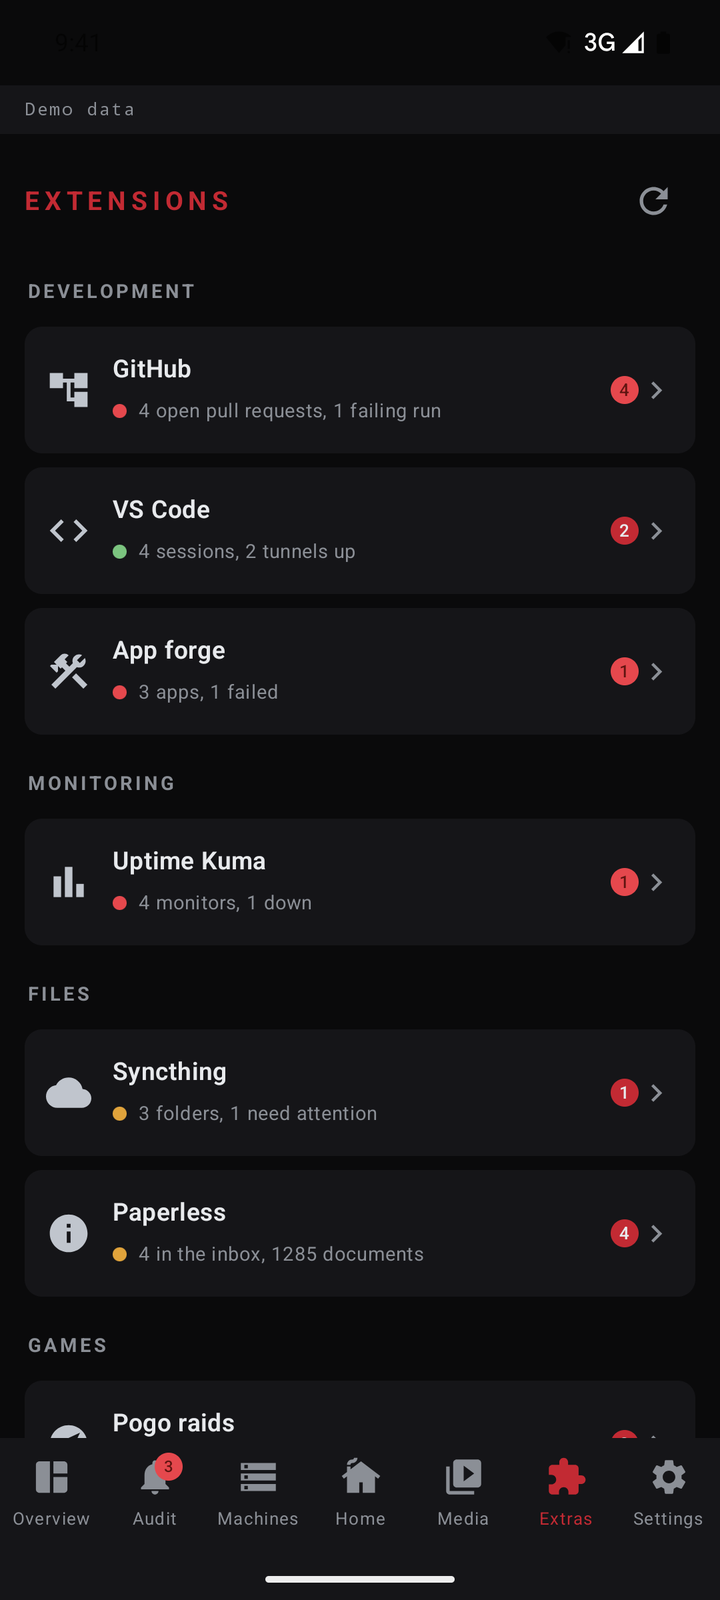
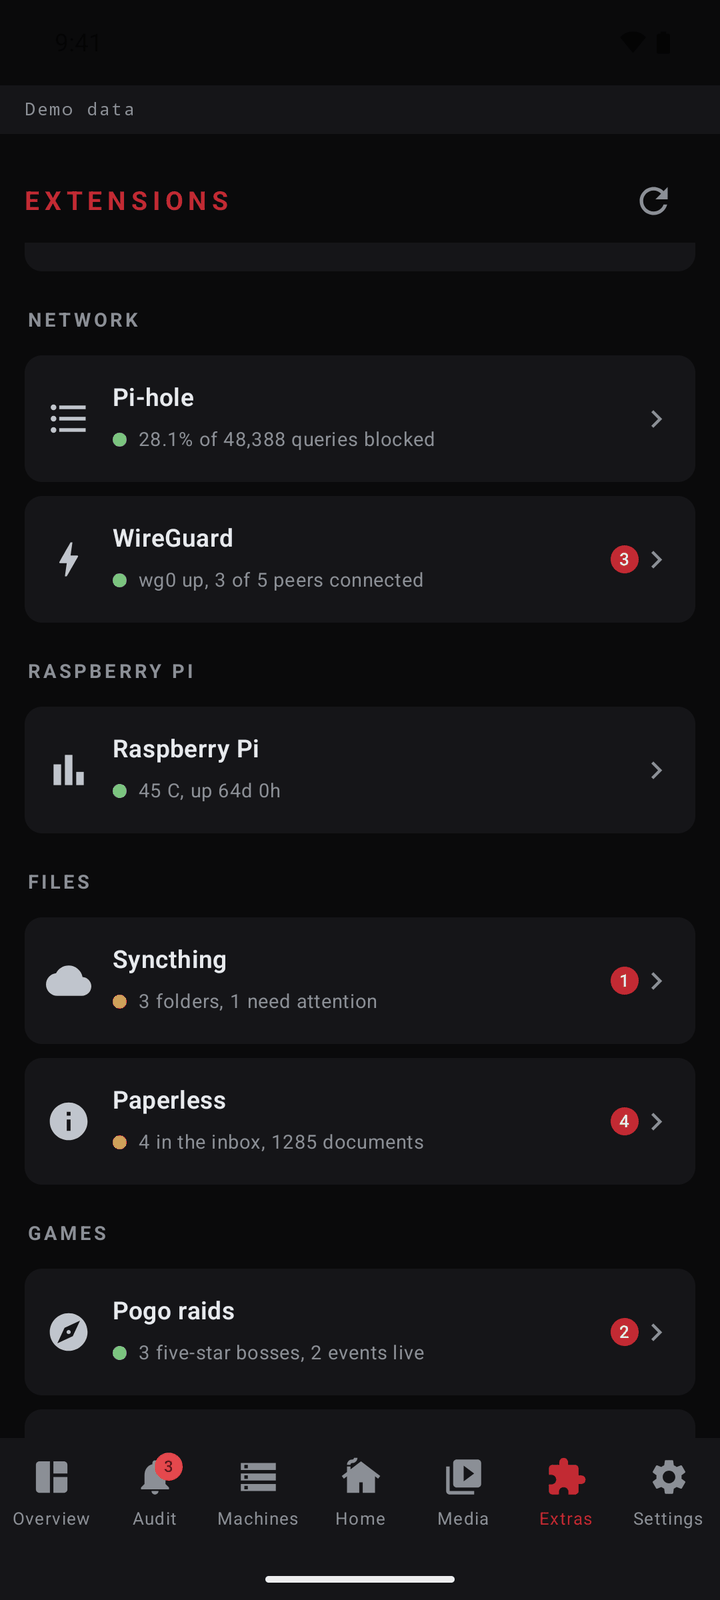
Document the Network and Raspberry Pi extensions, add screenshots
Lists the three new demo views in both READMEs and adds emulator screenshots. The extensions list screenshot is retaken because the Network and Raspberry Pi groups now sit after Monitoring.

diff --git a/README.md b/README.md
@@ -102,20 +102,23 @@ Control Center does not ship a backend of its own. It is a client for whatever H
 
 An extension is an integration the bridge describes and the app renders with one generic screen, so adding one needs a bridge change and no new APK. The bridge lists them at `GET /extensions`, serves each one as sections of typed blocks (stats, list, progress, text, chips, actions, link) at `GET /extensions/{id}`, and takes button presses at `POST /extensions/{id}/action`. The app refreshes the open screen on the pace the bridge asks for. Unknown block types and fields are ignored, so a newer bridge does not break an older app.
 
-The demo bridge serves nine, all with invented data (`--extensions github,hello` picks which). The list shows them under group headers, which come from an optional `group` field in `GET /extensions`; a bridge that sends none gets a flat list.
+The demo bridge serves twelve, all with invented data (`--extensions github,hello` picks which). The list shows them under group headers, which come from an optional `group` field in `GET /extensions`; a bridge that sends none gets a flat list.
 
 - **Development**: **GitHub** (pull requests, CI runs, merge and re-run), **VS Code** (remote sessions and tunnels), **App forge** (describe an app and watch a fake build job; in demo mode nothing is built, a real version would scaffold an Expo project and build it with a coding agent).
 - **Monitoring**: **Uptime Kuma** (monitors with response times and 24 hour uptime, pause and resume).
+- **Network**: **Pi-hole** (DNS filtering stats, pause for a short while, enable or disable, add a domain to the blocklist) and **WireGuard** (VPN peers with handshake age and transfer, enable, disable, remove, add a peer).
+- **Raspberry Pi**: **Raspberry Pi** (temperature, uptime and throttling flags, SD card, interface toggles, boot and overclock settings, firmware update, reboot).
 - **Files**: **Syncthing** (folder sync state with a moving progress bar, rescan) and **Paperless** (document inbox, a consume queue, mark reviewed).
 - **Games**: **Pogo raids** (sample raid bosses and events with made-up dates; a real version would read a public community event feed) and **Deadlock** (a draft-advisor overlay switch, suggested picks, recent matches, all sample numbers).
 - **Examples**: **Hello**, the 20-line example.
 
-The homelab apps (Uptime Kuma, Syncthing, Paperless) are demo views with invented titles, users and numbers. A real bridge would call each app's own API and return the same blocks.
+The homelab apps (Uptime Kuma, Syncthing, Paperless, Pi-hole, WireGuard and the Pi panel) are demo views with invented titles, users and numbers. A real bridge would call each app's own API (Pi-hole's API, the `wg` tool, the Pi's configuration tool) and return the same blocks.
 
 | | | |
 |---|---|---|
 | <img src="docs/screenshots/extension-pogo.png" width="200" alt="Raid calendar extension"> | <img src="docs/screenshots/extension-deadlock.png" width="200" alt="Deadlock draft helper with the overlay running"> | <img src="docs/screenshots/extension-vscode.png" width="200" alt="VS Code extension with remote sessions and tunnels"> |
-| <img src="docs/screenshots/extension-uptime.png" width="200" alt="Uptime Kuma extension with one monitor down and uptime bars"> | <img src="docs/screenshots/extension-syncthing.png" width="200" alt="Syncthing extension with a folder syncing"> | |
+| <img src="docs/screenshots/extension-uptime.png" width="200" alt="Uptime Kuma extension with one monitor down and uptime bars"> | <img src="docs/screenshots/extension-syncthing.png" width="200" alt="Syncthing extension with a folder syncing"> | <img src="docs/screenshots/extension-pihole.png" width="200" alt="Pi-hole extension with blocking paused"> |
+| <img src="docs/screenshots/extension-wireguard.png" width="200" alt="WireGuard extension with peers and handshake ages"> | <img src="docs/screenshots/extension-raspi.png" width="200" alt="Raspberry Pi extension with health and settings"> | |
 
 The block table and a "write your own" walkthrough are in [bridge/README.md](bridge/README.md#extensions).
 

diff --git a/bridge/README.md b/bridge/README.md
@@ -116,7 +116,7 @@ The app shows the **Extras** tab only when `/capabilities` lists `extensions`.
 A bridge with no `/capabilities` at all never gets the tab, because an older
 bridge cannot have `/extensions`.
 
-The demo serves nine, all with invented data and in-memory state. None of them
+The demo serves twelve, all with invented data and in-memory state. None of them
 calls a real service, runs a command or touches the network:
 
 | Id | Shows | Actions |
@@ -129,6 +129,9 @@ calls a real service, runs a command or touches the network:
 | `uptime` | Uptime monitors with up or down tone, response time and a 24 hour uptime bar; one is down | Pause and resume a monitor. |
 | `paperless` | Document counts, inbox with tag chips, a consume queue item that finishes after about 12 seconds | "Mark reviewed" removes an inbox item. |
 | `syncthing` | Folders with state (up to date, syncing with a moving bar, out of sync) and connected devices | "Rescan" starts a sync of about 12 seconds that ends up to date. |
+| `pihole` | Group Network. DNS filtering: queries and blocked counts, blocking state, top blocked domains (reserved example names), top clients, recent queries with allowed or blocked tone | "Pause 5 min" (a 20 second pause in the demo that ends by itself), Enable, Disable (asks first), and "Add to blocklist" with a text input. |
+| `wireguard` | Group Network. VPN server: interface and port, peers with address, handshake age, transfer and a tone from how recent the handshake is. Keys are placeholders; no private keys or configs are shown | Enable or disable a peer, Remove (asks first), "Add peer" with a text input; the new peer waits for a first handshake and connects after about 8 seconds. |
+| `raspi` | Group Raspberry Pi. The demo Pi's health and settings: model, CPU temperature, uptime, firmware state, power and throttling flags, SD card usage and wear, interface toggles (SSH, VNC, I2C, SPI, serial, camera), boot target, hostname (read only), overclock preset | Enable or disable each interface, change boot target and overclock (applied after a reboot), "Update firmware" (about 10 seconds with a progress bar), Reboot (asks first; shows "rebooting" for about 8 seconds, then uptime restarts). |
 | `hello` | A counter | Greet, with a text input. The example used below. |
 
 Honest limits: in `forge` nothing is created or built. The scaffold-an-Expo-project-and-build-it-with-a-coding-agent flow is
@@ -136,6 +139,8 @@ only described, and the log and preview page are canned text. `pogo` uses made-u
 a few well-known creature names; a real version would read a public community event feed. `deadlock`
 numbers are invented too. The homelab apps (`uptime`, `paperless`, `syncthing`) are demo views with invented
 titles, users and numbers; a real bridge would call each app's own status API and fill the same blocks.
+`pihole`, `wireguard` and `raspi` are the same kind of demo view. A real bridge would call Pi-hole's own API,
+the `wg` tool and the Pi's configuration tool, and would keep WireGuard private keys out of the answer.
 
 ### Endpoints
 
